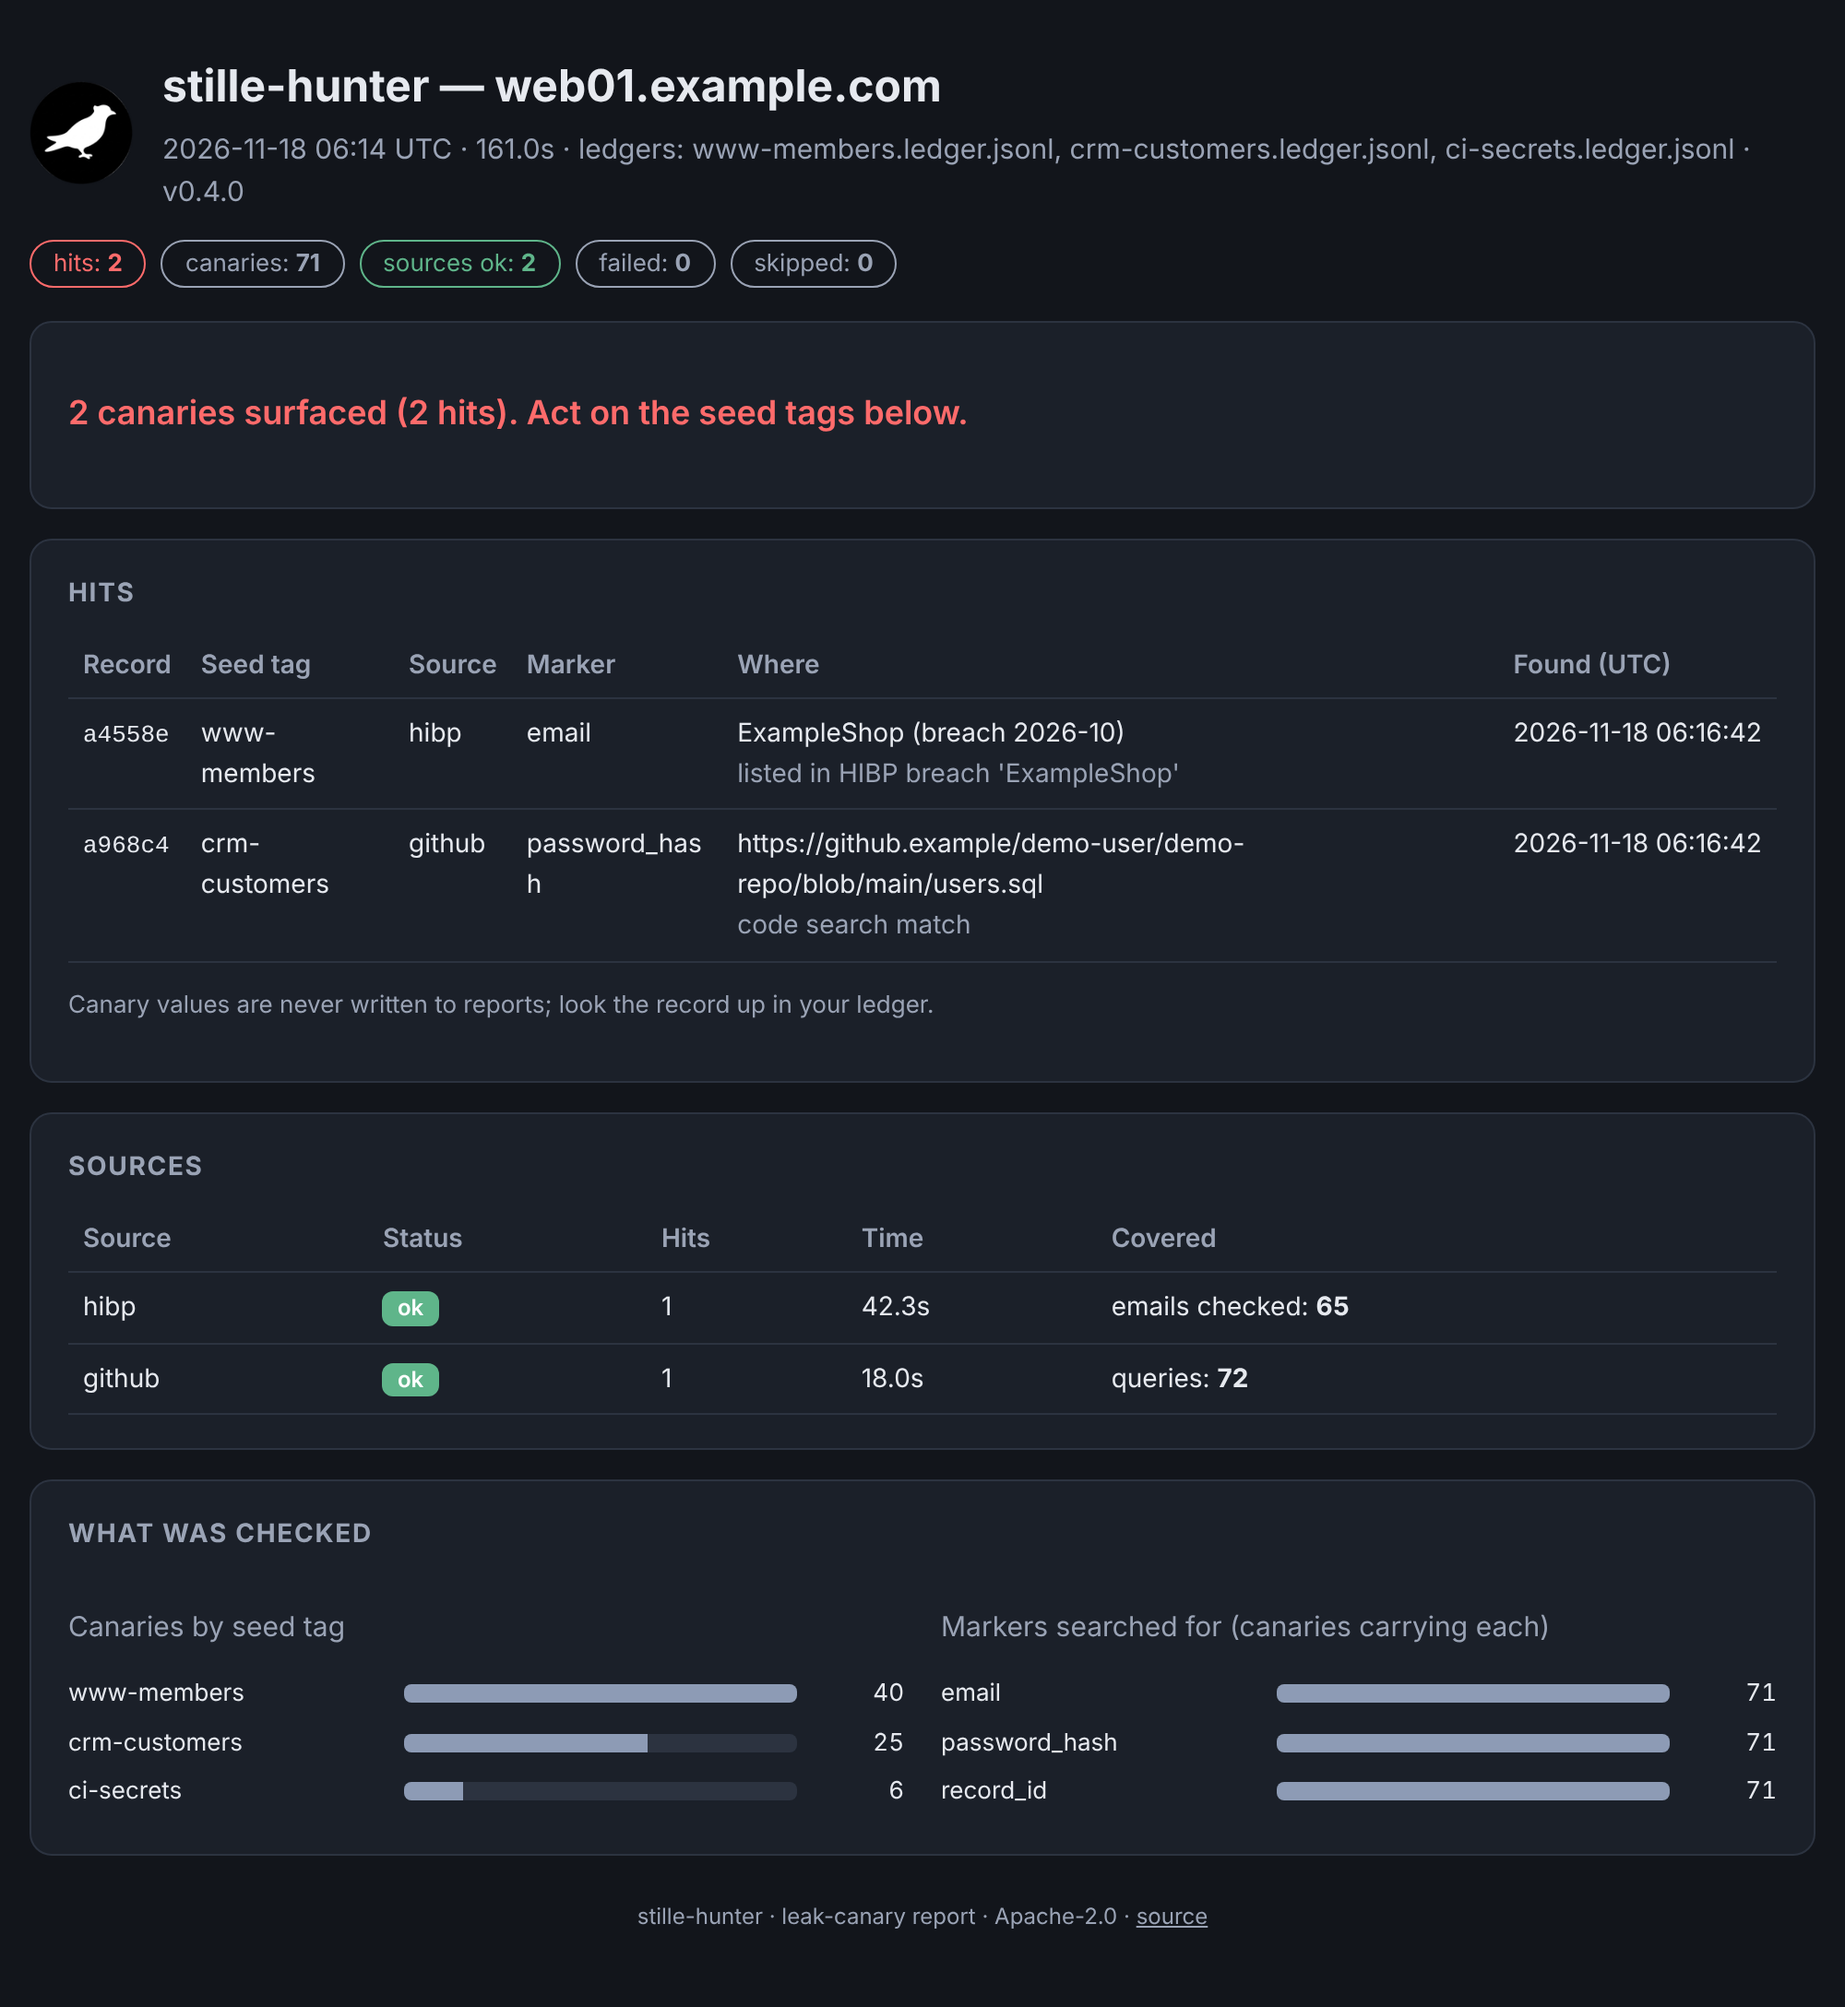
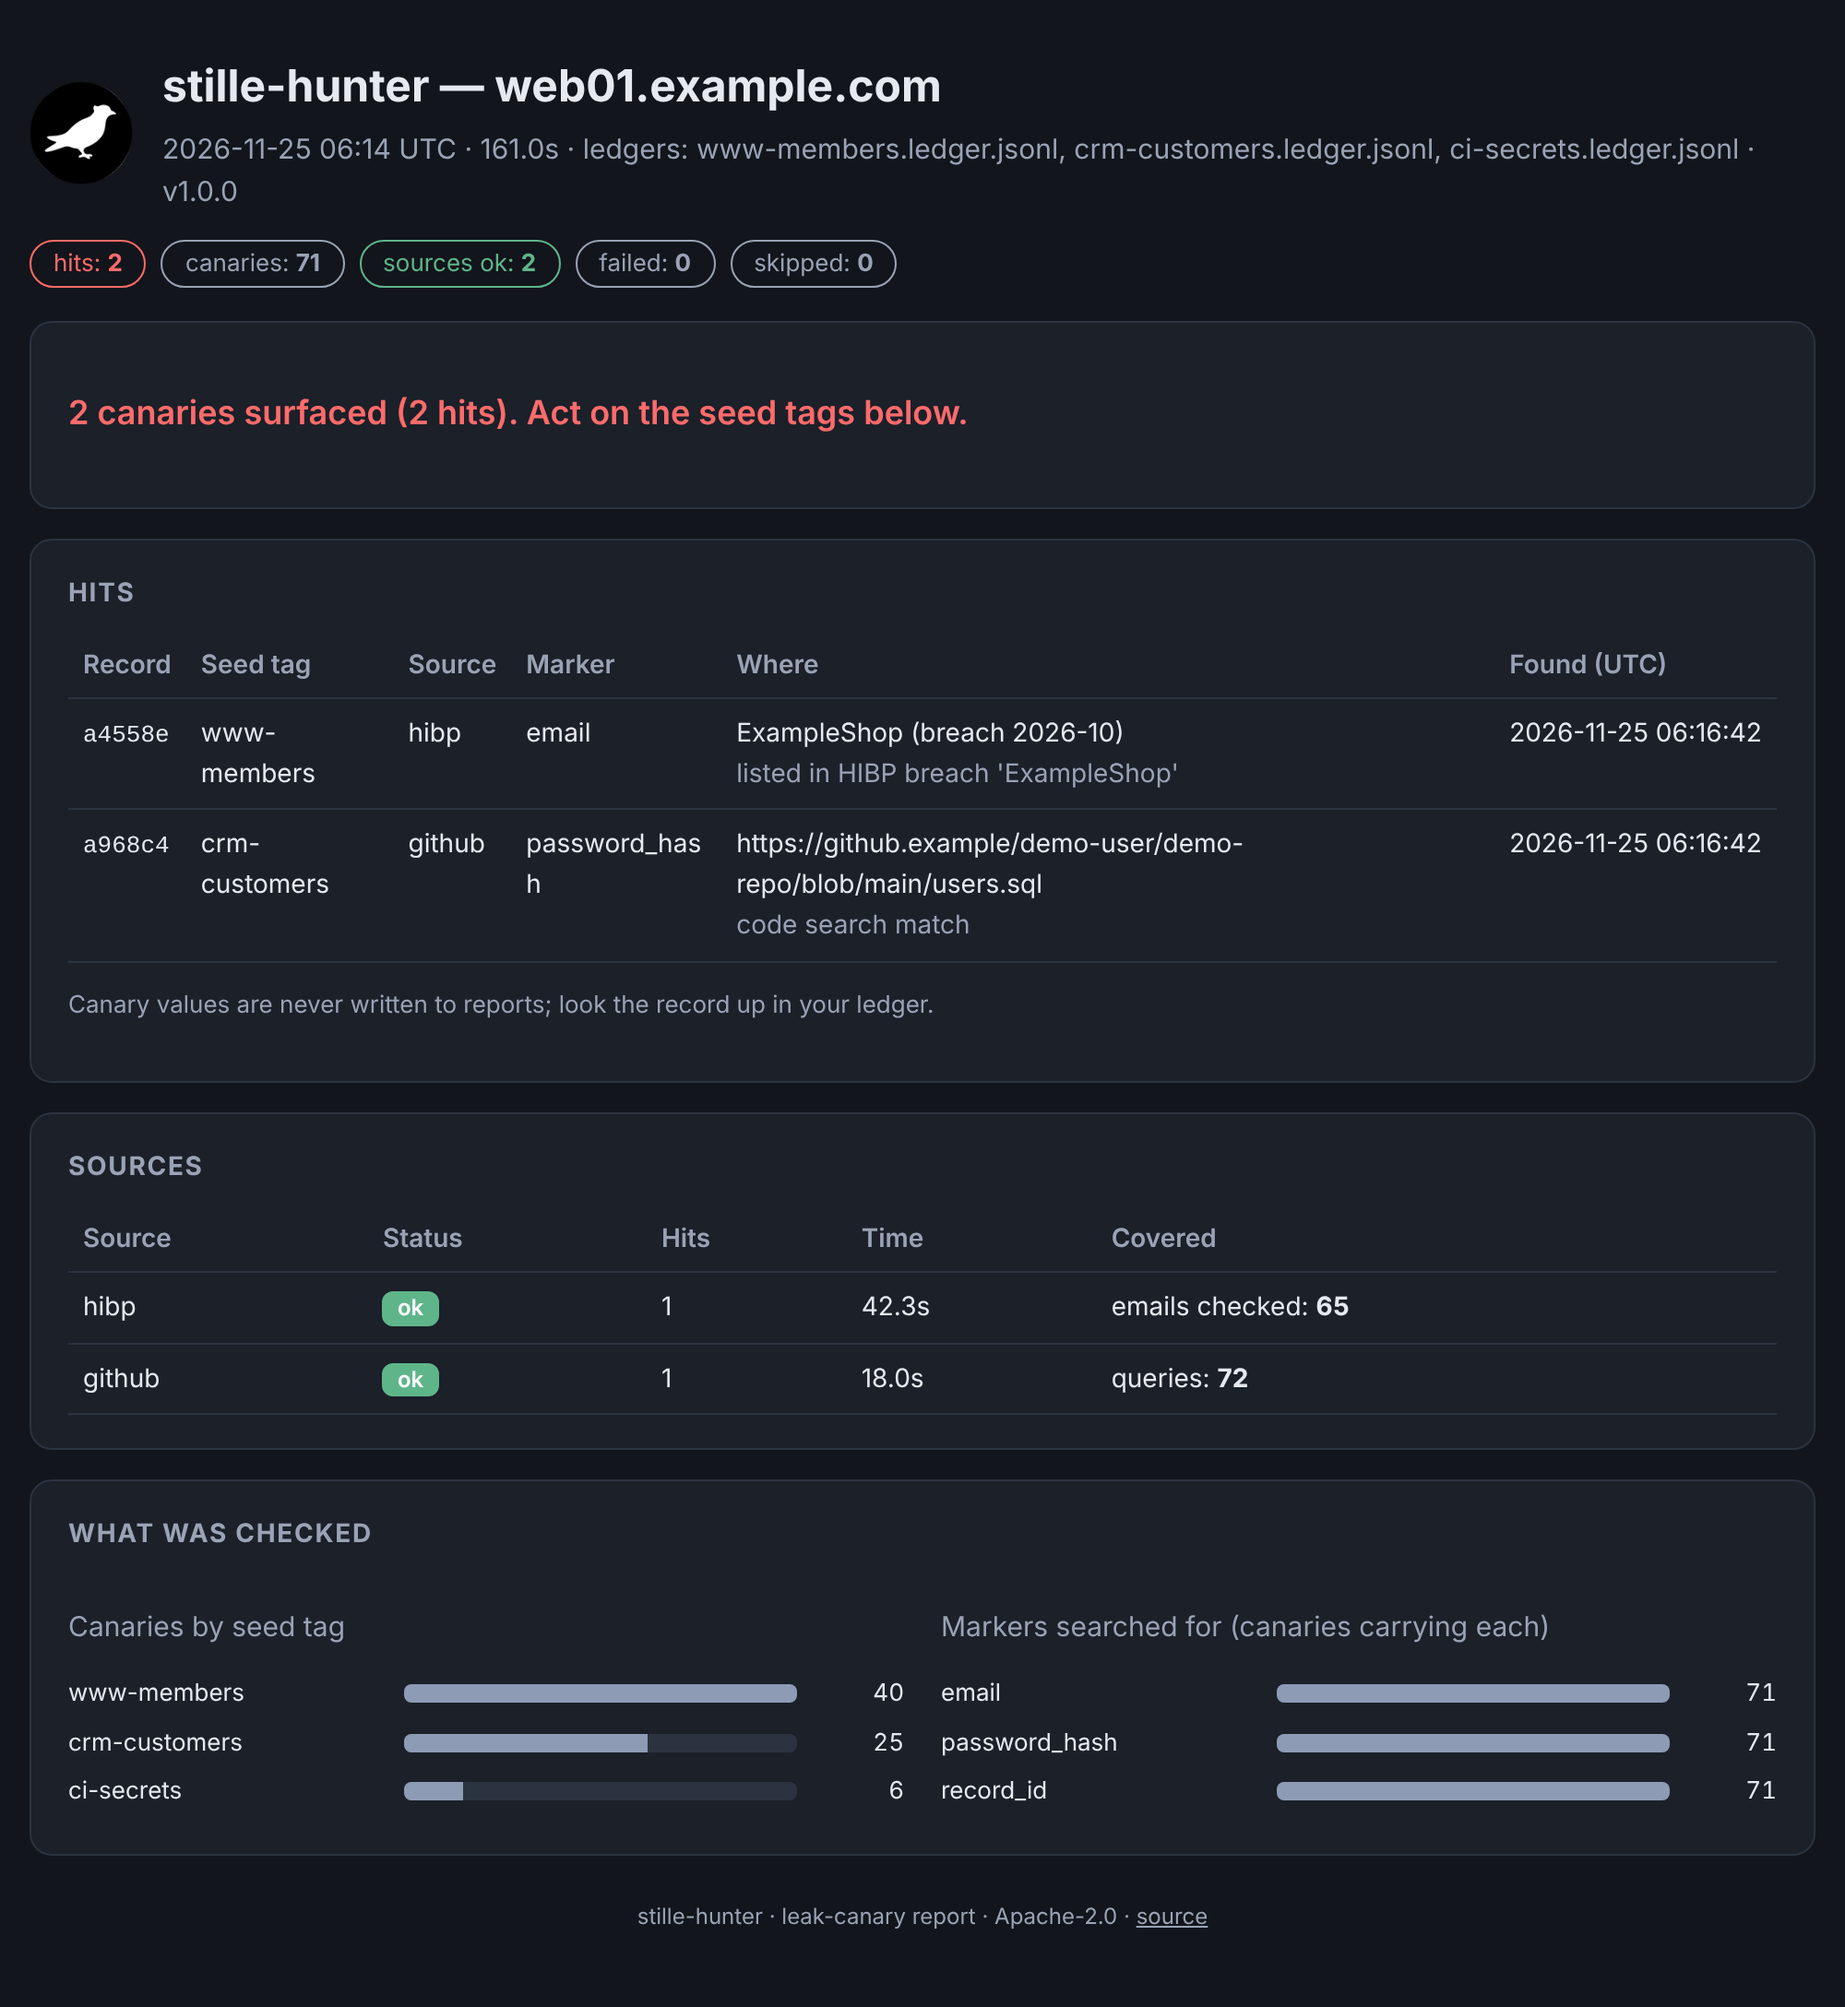
README art for 1.0: overview diagram and report screenshots
- docs/overview.svg: "generate" now says what can be planted (members,
  keys, tokens, configs - inert, all traceable) instead of member records
  only; the inbox path names the `inbox` command; the search path names
  GitHub code search; LEAK CONFIRMED adds "notify · report · history". The
  generate-to-ledger arrow now runs outside the "Plant" card instead of
  across its text.
- docs/img/report-{dark,light}.png: the same demo report, re-shot with the
  1.0.0 report code (the header showed v0.4.0).
- tools/demo_report.py: writes that demo report (all example.com data), so
  the screenshots can be refreshed for later releases.

Claude-Session: https://claude.ai/code/session_0139omCv1xo8dbXfGSWQLmaN

diff --git a/tools/demo_report.py b/tools/demo_report.py
@@ -1,0 +1,66 @@
+#!/usr/bin/env python3
+# SPDX-License-Identifier: Apache-2.0
+"""Write the demo report shown in the README (docs/img/report-*.png).
+
+    python tools/demo_report.py demo-report.html
+
+Everything in it is made up: example.com hosts, an "ExampleShop" breach and a
+github.example URL. It uses the installed version's report code, so the page
+shows the current version. To refresh the README pictures, open the file in a
+browser 1000 px wide and take a full-page screenshot at 2x in dark and light
+mode (e.g. with Playwright), saved as docs/img/report-dark.png and
+docs/img/report-light.png.
+"""
+from __future__ import annotations
+
+import secrets
+import sys
+from datetime import datetime, timedelta, timezone
+
+from stille_hunter import report
+from stille_hunter.check import Canary, Hit, SourceResult
+
+
+def _canary(record_id: str, tag: str) -> Canary:
+    return Canary(record_id, tag, "search", "jp", f"demo.{record_id}@example.com",
+                  f"demo{record_id}", "ab" * 32, {})
+
+
+def build() -> dict:
+    canaries = ([_canary("a4558e", "www-members")]
+                + [_canary(secrets.token_hex(3), "www-members") for _ in range(39)]
+                + [_canary("a968c4", "crm-customers")]
+                + [_canary(secrets.token_hex(3), "crm-customers") for _ in range(24)]
+                + [_canary(secrets.token_hex(3), "ci-secrets") for _ in range(6)])
+    started = datetime.now(timezone.utc).replace(hour=6, minute=14, second=0, microsecond=0)
+    finished = started + timedelta(seconds=161)
+    found = (started + timedelta(seconds=162)).isoformat()
+    hits = [
+        Hit(canary=canaries[0], source="hibp", token_kind="email", token="",
+            location="ExampleShop (breach 2026-10)",
+            detail="listed in HIBP breach 'ExampleShop'", found_at=found),
+        Hit(canary=canaries[40], source="github", token_kind="password_hash", token="",
+            location="https://github.example/demo-user/demo-repo/blob/main/users.sql",
+            detail="code search match", found_at=found),
+    ]
+    results = [SourceResult("hibp", "ok", "", 1, 42.3, {"emails checked": 65}),
+               SourceResult("github", "ok", "", 1, 18.0, {"queries": 72})]
+    return report.build(
+        canaries=canaries, source_names=["hibp", "github"], hits=hits, results=results,
+        started=started, finished=finished, title="web01.example.com",
+        ledgers=["www-members.ledger.jsonl", "crm-customers.ledger.jsonl",
+                 "ci-secrets.ledger.jsonl"],
+        searched={"email", "password_hash", "record_id"})
+
+
+def main(argv: list[str]) -> int:
+    if len(argv) != 1 or not argv[0].endswith(".html"):
+        sys.stderr.write("usage: python tools/demo_report.py OUT.html\n")
+        return 2
+    report.write(argv[0], build())
+    print(f"wrote {argv[0]}")
+    return 0
+
+
+if __name__ == "__main__":
+    sys.exit(main(sys.argv[1:]))
